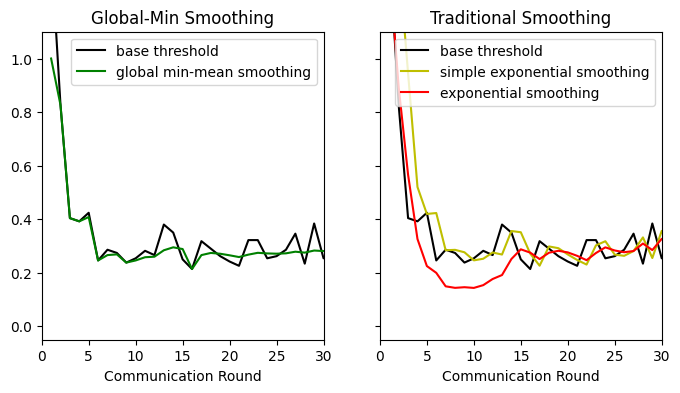
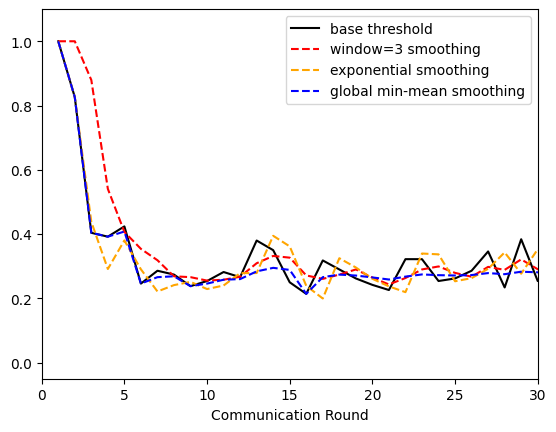
update scaling

Changed region(s): [[0.0, 0.0, 1.0, 0.9771]]

diff --git a/99_article/99_visuals/extra_plots/make_min_mean.py b/99_article/99_visuals/extra_plots/make_min_mean.py
@@ -20,7 +20,7 @@ def get_args():
 
     parser = argparse.ArgumentParser()
     parser.add_argument('--n_rounds', default=250, type=int)
-    parser.add_argument('--d_rounds', default=50, type=int)
+    parser.add_argument('--d_rounds', default=30, type=int)
     parser.add_argument('--alpha', default=10000, type=int)
     parser.add_argument('--alpha_val', default=10000, type=int)
 
@@ -73,6 +73,25 @@ def get_quantiles(r, values, running=0, global_min=0):
     return np.array(q1), np.array(q3)
 
 
+def get_smoothing(x, w=3):
+
+    out_simple, out_exp = [], []
+    for i in range(len(x)):
+        temp = x[:(i + 1)]
+
+        if i == 0:
+            out_simple.append(x[0])
+            out_exp.append(x[0])
+
+        else:
+            out_simple.append(np.mean(x[max([0, i - (w - 1)]):(i + 1)]))
+
+            exp_smooth = ExponentialSmoothing(temp, trend='mul', initialization_method="estimated").fit()
+            out_exp.append(exp_smooth.fittedvalues[-1])
+
+    return (np.array(out_simple), np.array(out_exp))
+
+
 def plot_threshold(
     data_val, d_rounds,  # ----- input data and rounds to display
     suffix, path='.'  # -------- .png output location
@@ -87,40 +106,23 @@ def plot_threshold(
     data_val_max = data_val_values.max(axis=1)
     data_val_max_thresh = get_thresh(data_val_max)
     data_val_max_thresh = np.maximum(np.minimum(data_val_max_thresh, 1), 0)
+    (w_smooth, exp_smooth) = get_smoothing(2 * data_val_max)
 
-    fig, [ax1, ax2] = plt.subplots(ncols=2, sharey=True, figsize=(8, 4))
-    ax1.set_title('Global-Min Smoothing')
+    plt.figure()
+    plt.xlabel('Communication Round')
+    plt.xlim(0, d_rounds)
+    plt.ylim(-0.05, 1.1)
 
-    ax1.set_xlabel('Communication Round')
-    ax1.set_xlim(0, d_rounds)
-    ax1.set_ylim(-0.05, 1.1)
+    plt.plot(data_val_r + 1, np.minimum(2 * data_val_max, 1), '-k')
+    plt.plot(data_val_r + 1, np.minimum(w_smooth, 1), '--r')
+    plt.plot(data_val_r + 1, np.minimum(exp_smooth, 1), '--', color='orange')
+    plt.plot(data_val_r + 1, np.minimum(data_val_max_thresh, 1), '--b')
 
-    ax1.plot(data_val_r + 1, 2*data_val_max, '-k')
-    ax1.plot(data_val_r + 1, data_val_max_thresh, '-g')
-
-    ax1.legend(labels=[
+    plt.legend(labels=[
         'base threshold',
-        'global min-mean smoothing'
-    ])
-
-    # smoothing
-    simple_exp = SimpleExpSmoothing(2 * data_val_max, initialization_method="estimated").fit()
-    exp_smooth = ExponentialSmoothing(2 * data_val_max, trend='mul', initialization_method="estimated").fit()
-
-    ax2.set_title('Traditional Smoothing')
-
-    ax2.set_xlabel('Communication Round')
-    ax2.set_xlim(0, d_rounds)
-    ax2.set_ylim(-0.05, 1.1)
-
-    ax2.plot(data_val_r + 1, 2 * data_val_max, '-k')
-    ax2.plot(data_val_r + 1, simple_exp.fittedvalues, '-y')
-    ax2.plot(data_val_r + 1, exp_smooth.fittedvalues, '-r')
-
-    ax2.legend(labels=[
-        'base threshold',
-        'simple exponential smoothing',
+        'window=3 smoothing',
         'exponential smoothing',
+        'global min-mean smoothing'
     ])
 
     if path is not None:
